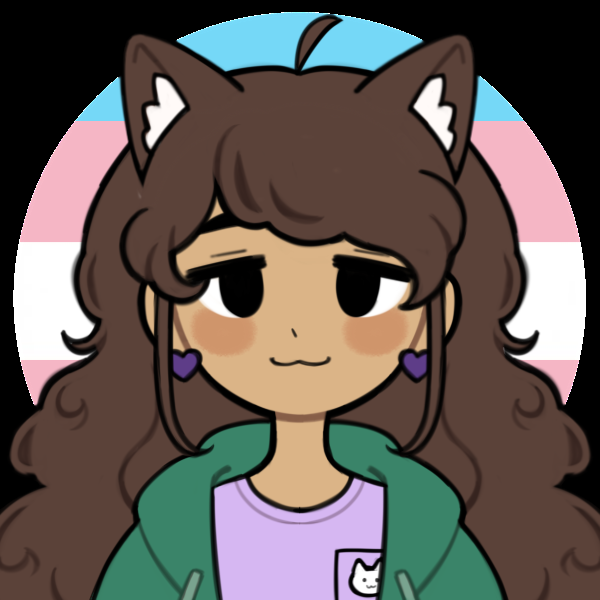
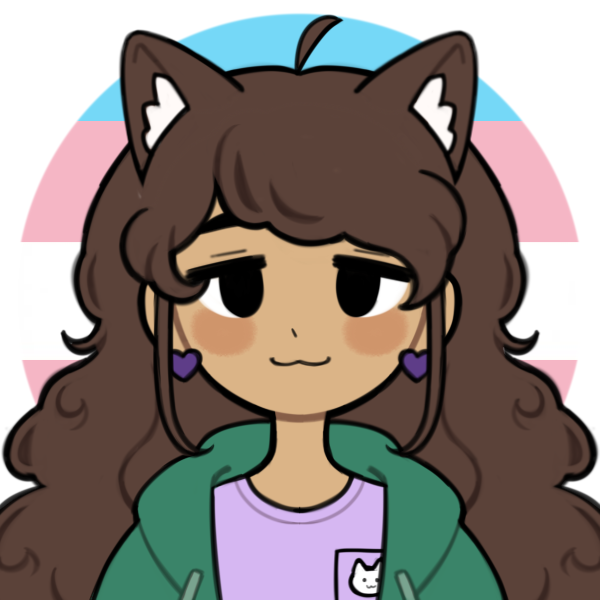
Changed pfp, added runner and some 88x31s

Changed region(s): [[0.0, 0.0, 1.0, 0.87]]

diff --git a/index.html b/index.html
@@ -26,15 +26,15 @@ a {color: midnightblue; text-decoration: none;}
 <div align = center>
 	<table><tr>
 		<th> | </th>
-		<th>Drawing Resources</th>
+		<th><a>Drawing Resources</a></th>
 		<th> | </th>
-		<th>Writing Resources</th>
+		<th><a>Writing Resources</a></th>
 		<th> | </th>
-		<th>Art Dump</th> <!-- art dump should also have music dump btw -->
+		<th><a>Art Dump</a></th> <!-- art dump should also have music dump btw -->
 		<th> | </th>
-		<th>Picrew dump</th>
+		<th><a>Picrew dump</a></th>
 		<th> | </th>
-		<th>World Heritage Posts</th>
+		<th><a>World Heritage Posts</a></th>
 		<th> |</th>
 	</tr></table>
 	<hr style="background-color: black">
@@ -49,8 +49,27 @@ a {color: midnightblue; text-decoration: none;}
 			<td style ="padding: 20px; color:indigo"> Heya! <br> My name is Carla :3 <br> I am a trans demigirl, currently studying computer science. <br> This is my little gay space, feel free to browse ^-^ <br> You can find me on tumblr, link to it in the footer of the website. <br><br> Be queer but most importantly, be SILLY!!!</td></tr>
 	</table>
 </div>
-<!--<script type='text/javascript' src='https://carlacat.tumblr.com/js'></script>-->
 
+<!--  end of the main area  -->
+<br><br><br><br>
+<div align=center><img src="images/runner.png" alt="[A drawing of the Pale King from Hollow Knight running]" width=120 height=60><img src="images/runner.png" alt="[repeated]" width=120 height=60><img src="images/runner.png" alt="[repeated]" width=120 height=60><img src="images/runner.png" alt="[repeated]" width=120 height=60><img src="images/runner.png" alt="[repeated]" width=120 height=60><img src="images/runner.png" alt="[repeated]" width=120 height=60></div>
+<hr style="background-color: black">
+<div align=center>
+<a href="http://cyber.dabamos.de/88x31/index.html" title="88x31 gif archive" target="_blank"><img src="images/88x31.gif" alt="88 X 31"></a>
+<img src="images/antinft.gif" alt="This is an Anti-NFT site">
+<a title="Please do not use Chrome or any Chromium-based browser. Please use Firefox or something else that is secure and open source and will not fuck you over and sell you for one corn chip" target="_self"><img src="images/anythingbutchrome.gif" alt="Anything But Chrome"></a>
+<a title="Linux Mint is an amazing beginner distro. I strongly recommend it!"><img src="images/linux_mint.gif" alt="Linux Mint"></a>
+<a title="Piracy and archiving go hand in hand. In today's 'You'll own nothing' world, piracy is the most moral thing left to do"><img src="images/piracy.gif" alt="Piracy Now! (free)"></a>
+</div>
+<div align=center>
+<a title="I am nonbinary hell yeah! :3"><img src="images/nonbinary.png" alt="non-binary pride!"></a>
+<a title="I am also transgender! Trans rights forever ^-^"><img src="images/transnow2.gif" alt="Trans Rights Now!"></a>
+<a title="Queer is not a slur, but the most inclusive way of describing the community"><img src="images/queer.png" alt="queer pride"></a>
+<a title="Holy Fucking Bingle! It is my inspiration for this entire website!!" href="https://maia.crimew.gay" target="_blank"><img src="images/maia.crimew.gay.png" alt="maia.crimew.gay"></a>
+</div>
+<div align=center>
+<img src="images/newlambda.gif" alt="New Lambda Research Facility">
+</div>
 
 
 </body></html>
